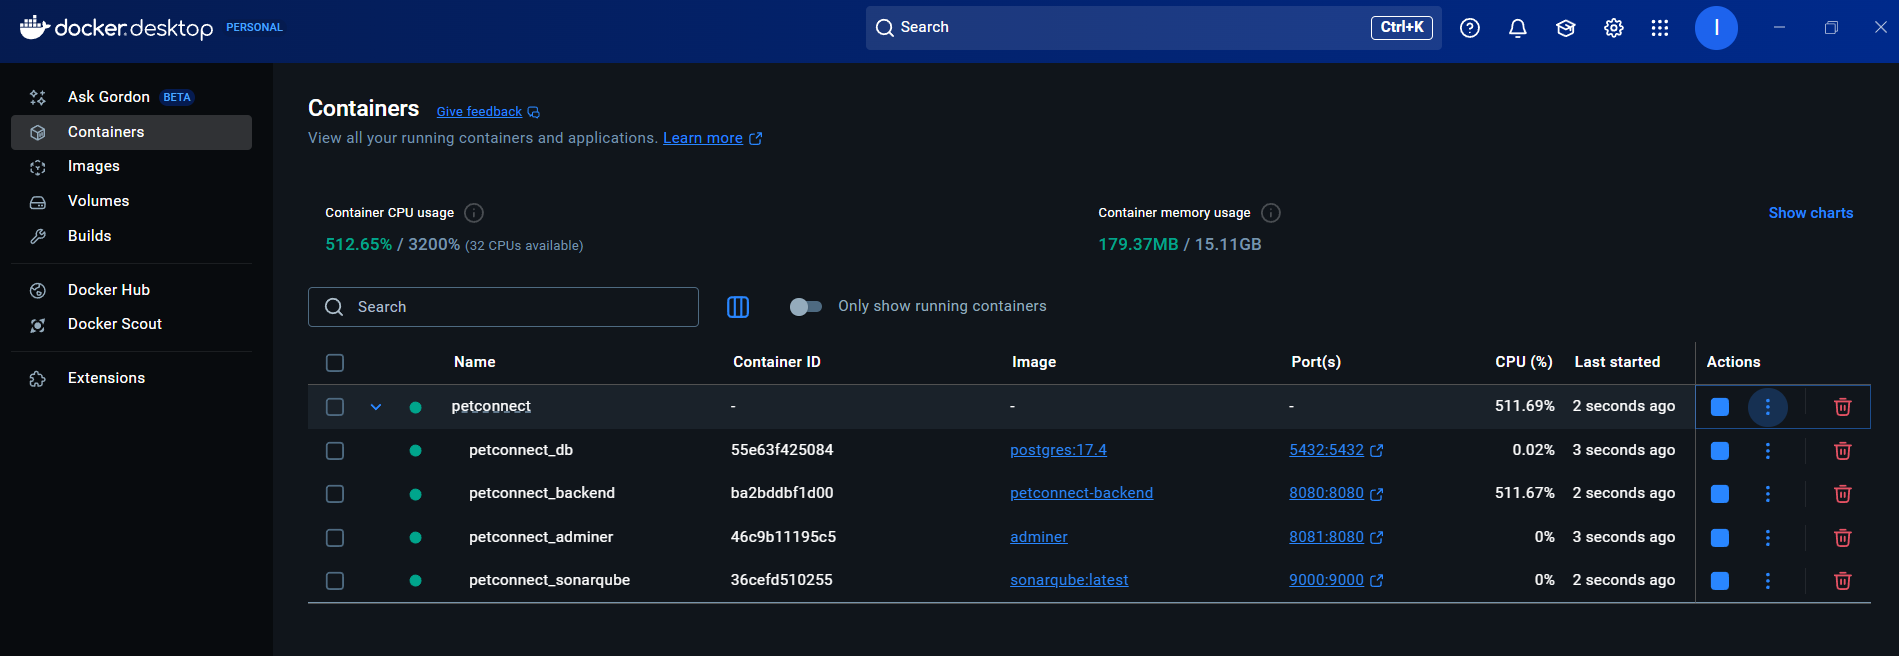
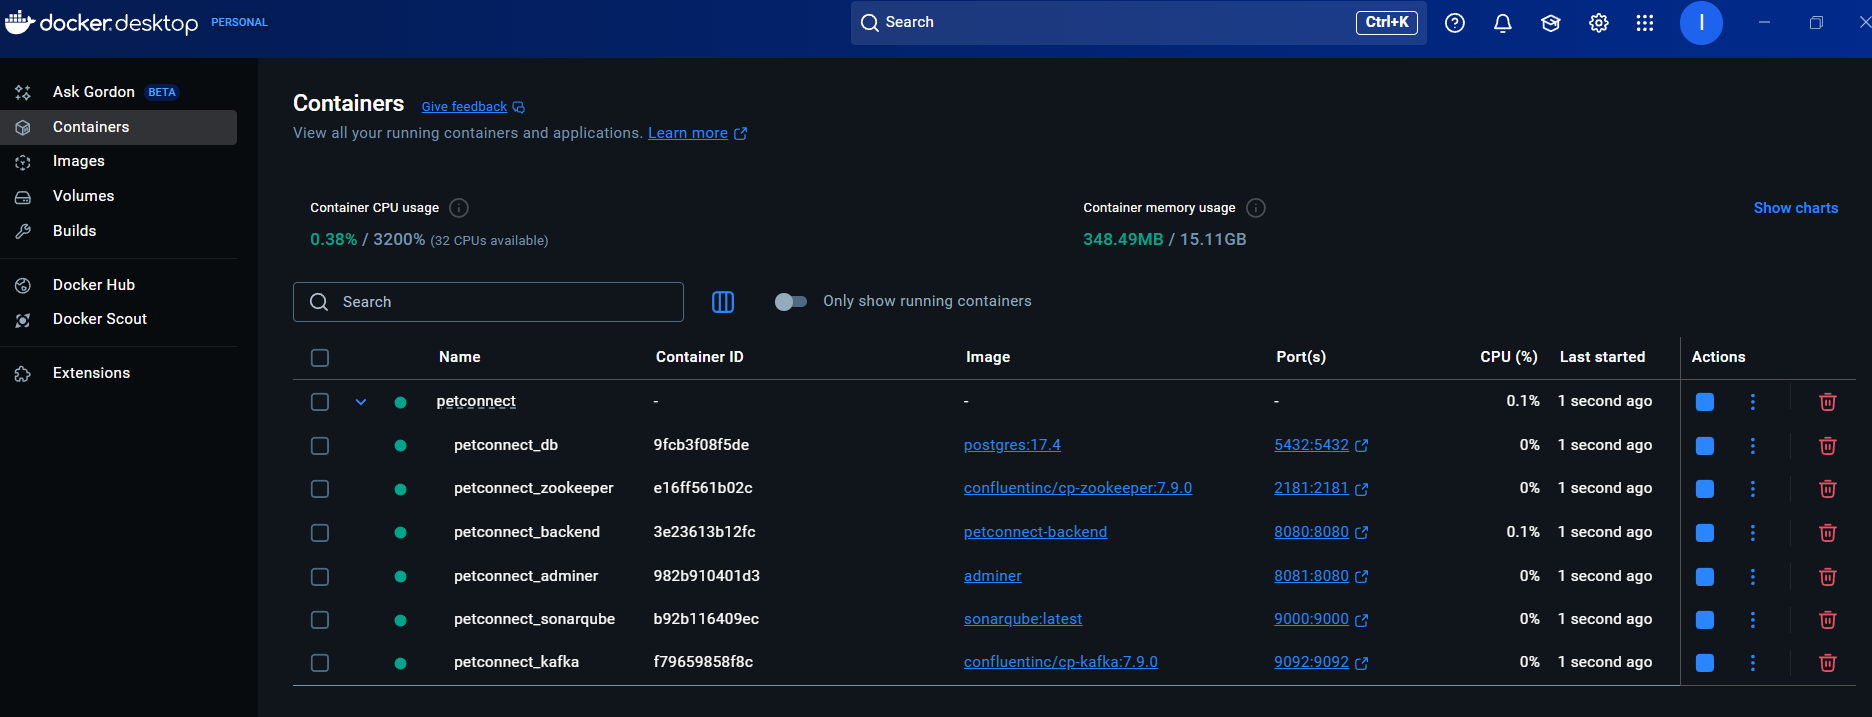
docs: Update README to include Kafka/Zookeeper services

diff --git a/backend/src/test/java/com/petconnect/backend/notification/adapter/kafka/KafkaEventPublicationIntegrationTest.java b/backend/src/test/java/com/petconnect/backend/notification/adapter/kafka/KafkaEventPublicationIntegrationTest.java
@@ -198,7 +198,6 @@ class KafkaEventPublicationIntegrationTest {
                 certificateRequestsTopicName,
                 certificateGeneratedTopicName
         ));
-        Thread.sleep(500);
         int maxMessagesToConsume = 100;
         KafkaTestUtils.getRecords(consumer, Duration.ofMillis(100), maxMessagesToConsume);
     }

diff --git a/README_ES.md b/README_ES.md
@@ -116,7 +116,8 @@ openssl rsa -pubout -in keys/clinic_private_key.pem -out keys/clinic_public_key.
 
 ## 4. Construir e iniciar el entorno de desarrollo completo
 
-Docker Compose se utiliza para orquestar todos los servicios necesarios (base de datos, backend, herramientas de análisis, etc.). Esta es la forma estándar de ejecutar la aplicación para desarrollo y pruebas.
+Docker Compose se utiliza para orquestar todos los servicios necesarios (base de datos, backend, herramientas de análisis, etc.). 
+Esta es la forma estándar de ejecutar la aplicación para desarrollo y pruebas.
 
 1.  **Asegúrate de Cumplir los Prerrequisitos:** Verifica que has completado los pasos 1-4 (Prerrequisitos, Clonar, Configuración `.env`, Generación de Claves si fue necesario).
 2.  **Construye e Inicia Todos los Servicios:** Desde el directorio raíz del proyecto (`petconnect/`), ejecuta el siguiente único comando:
@@ -125,23 +126,25 @@ Docker Compose se utiliza para orquestar todos los servicios necesarios (base de
     ```
 
 Este comando descargará las imágenes necesarias (si no las tienes) y creará e iniciará los siguientes contenedores en segundo plano (`-d`):
-- `petconnect_db`: Contenedor con la base de datos PostgreSQL 17.4.
-- `petconnect_adminer`: Interfaz web para gestionar la base de datos.
-- `petconnect_sonarqube`: Contenedor con el servidor SonarQube.
-- `petconnect_`backend``: Contenedor con el servidor Backend.
+-   `petconnect_db`: Contenedor con la base de datos PostgreSQL.
+-   `petconnect_adminer`: Interfaz web para gestionar la base de datos.
+-   `petconnect_backend`: Contenedor con la aplicación backend Spring Boot.
+-   `petconnect_sonarqube`: Contenedor con el servidor SonarQube.
+-   `petconnect_zookeeper`: Contenedor Zookeeper (para Kafka).
+-   `petconnect_kafka`: Contenedor con el broker Kafka (para eventos asíncronos).
 
 3.  **Verifica Todos los Contenedores:** Comprueba que todos los contenedores esperados están en ejecución:
     ```bash
     docker compose ps
     ```
-    Deberías ver `petconnect_db`, `petconnect_adminer`, `petconnect_backend` y `petconnect_sonarqube` listados como 'running' o 'up'.
+    Deberías ver `petconnect_db`, `petconnect_adminer`, `petconnect_backend`, `petconnect_sonarqube`, `petconnect_zookeeper` y `petconnect_kafka` listados como 'running' o 'up'.
 
-4.  **Revisa los Logs del Backend (Opcional):** Si es necesario, mira los logs del backend para confirmar un inicio correcto:
+4.  **Revisa los Logs del Backend:** Si es necesario, mira los logs del backend para confirmar un inicio correcto:
     ```bash
     docker compose logs -f backend
     ```
 
-Todos los servicios deberían estar ahora ejecutándose y accesibles en los puertos definidos en la Sección 9 (Acceder a las Herramientas y Aplicación). La API del backend está en `http://localhost:8080`.
+Todos los servicios deberían estar ahora ejecutándose y accesibles en los puertos definidos en la Sección 8 (Acceder a las Herramientas y Aplicación). La API del backend está en `http://localhost:8080`.
 
 > [!NOTE]
 > *   Para detener todos los servicios en ejecución: `docker compose down`
@@ -153,14 +156,14 @@ Todos los servicios deberían estar ahora ejecutándose y accesibles en los puer
 
 ## 5. Ejecutar backend localmente (Alternativa IDE/Debug)
 
-Aunque la Sección 4 describe cómo ejecutar el entorno completo vía Docker Compose, puede que prefieras ejecutar o depurar la aplicación backend directamente desde tu IDE (como IntelliJ o VS Code) o usando el plugin Maven de Spring Boot para obtener feedback más rápido durante el desarrollo, pero usando igualmente la base de datos contenerizada.
+Aunque la Sección 4 describe cómo ejecutar el entorno completo vía Docker Compose, puede que prefieras ejecutar o depurar la aplicación backend directamente desde tu IDE (como IntelliJ o VS Code) o usando el plugin Maven de Spring Boot para obtener feedback más rápido durante el desarrollo, pero usando igualmente la base de datos y herramientas de análisis contenerizadas.
 
 **Prerrequisitos para este método:**
 
-1.  **Contenedor de Base de Datos en Ejecución:** Es **obligatorio** que el contenedor de la base de datos PostgreSQL esté ejecutándose. Inicia *solo* el servicio de base de datos (y opcionalmente Adminer) si no está ya iniciado:
+1.  **Base de Datos y Otros Servicios en Ejecución:** Es **obligatorio** que los servicios externos necesarios estén ejecutándose en Docker. Inicia *al menos* la base de datos (y opcionalmente Adminer, SonarQube si pruebas localmente) si no están ya iniciados:
     ```bash
     # Asegúrate de estar en el directorio raíz del proyecto (petconnect/)
-    docker compose up -d db adminer
+    docker compose up -d db adminer sonarqube # Añade zookeeper kafka si es necesario para tests específicos, pero normalmente no para ejecutar el backend localmente
     ```
     Tu backend ejecutándose localmente se conectará a este contenedor vía `localhost:5432` (según se define en `backend/src/main/resources/application.properties`).
 
@@ -168,7 +171,7 @@ Aunque la Sección 4 describe cómo ejecutar el entorno completo vía Docker Com
     ```bash
     cd backend
     mvn clean package -DskipTests
-    # cd .. # Permanece en el directorio backend para el siguiente paso si usas Maven
+    # cd .. # Vuelve a la raíz del proyecto
     ```
 
 **Ejecutar el Backend Localmente:**
@@ -187,7 +190,10 @@ Aunque la Sección 4 describe cómo ejecutar el entorno completo vía Docker Com
 La API del backend estará disponible en `http://localhost:8080`, conectándose a la base de datos que se ejecuta en el contenedor Docker `petconnect_db`.
 
 > [!IMPORTANT]
-> Este método ejecuta la aplicación backend **fuera** de su propio contenedor Docker, directamente en tu máquina local. Depende de que tengas instaladas localmente las versiones correctas de Java y Maven (ver Sección 1). El método principal usando `docker compose up --build -d` (Sección 4) ejecuta el backend *dentro* de su contenedor, proporcionando una mayor consistencia de entorno.
+> Este método ejecuta la aplicación backend **fuera** de su propio contenedor Docker, directamente en tu máquina local. Depende de que tengas instaladas localmente las versiones correctas de Java y Maven (ver Sección 1).
+> 
+>**Nota:** Al ejecutarse localmente, el backend se conectará a la base de datos contenerizada vía `localhost:5432`. Sin embargo, **no podrá conectarse** al broker Kafka contenerizado usando el hostname interno `kafka:9092` especificado en `application.properties`. 
+> Para la funcionalidad completa incluyendo la publicación/consumo de eventos asíncronos, usa el entorno completo de Docker Compose (Sección 4).
 
 ## 6. Ejecutar pruebas (Tests)
 

diff --git a/README.md b/README.md
@@ -128,22 +128,26 @@ Docker Compose is used to orchestrate all the necessary services (database, back
     ```
 
 This command will download the necessary images (if not present) and create/start the following containers in detached mode (`-d`):
-- `petconnect_db`: PostgreSQL 17.4 database container.
-- `petconnect_adminer`: Web interface for database management.
-- `petconnect_sonarqube`: SonarQube server container.
+-   `petconnect_db`: PostgreSQL database container.
+-   `petconnect_adminer`: Web interface for database management.
+-   `petconnect_backend`: Spring Boot backend application container.
+-   `petconnect_sonarqube`: SonarQube server container.
+-   `petconnect_zookeeper`: Zookeeper container (for Kafka).
+-   `petconnect_kafka`: Kafka broker container (for asynchronous events).
 
 3.  **Verify All Containers:** Check that all expected containers are running:
     ```bash
     docker compose ps
     ```
-    You should see `petconnect_db`, `petconnect_adminer`, `petconnect_backend`, and `petconnect_sonarqube` listed as 'running' or 'up'.
+    You should see `petconnect_db`, `petconnect_adminer`, `petconnect_backend`, `petconnect_sonarqube`, `petconnect_zookeeper`, and `petconnect_kafka` listed as 'running' or 'up.'
 
-4.  **Check Backend Logs (Optional):** If needed, view the backend logs to confirm successful startup:
+
+4.  **Check Backend Logs:** If needed, view the backend logs to confirm a successful startup:
     ```bash
     docker compose logs -f backend
     ```
 
-All services should now be running and accessible at the ports defined in Section 9 (Accessing Tools & Applications). The backend API is at `http://localhost:8080`.
+All services should now be running and accessible at the ports defined in Section 8 (Accessing Tools & Applications). The backend API is at `http://localhost:8080`.
 
 > [!NOTE]
 > *   To stop all running services: `docker compose down`
@@ -154,22 +158,23 @@ All services should now be running and accessible at the ports defined in Sectio
 
 ## 5. Running backend locally (IDE/Debug Alternative)
 
-While Section 4 describes running the full environment via Docker Compose, you might prefer to run or debug the backend application directly from your IDE (like IntelliJ or VS Code) or using the Maven Spring Boot plugin for faster feedback loops during development, while still using the containerized database.
+While Section 4 describes running the full environment via Docker Compose, you might prefer to run or debug the backend application directly from your IDE (like IntelliJ or VS Code) or using the Maven Spring Boot plugin for faster feedback loops during development, while still using the containerized database and analysis tools
 
 **Prerequisites for this method:**
 
-1.  **Database Container Running:** You *must* have the PostgreSQL database container running. Start *only* the database service (and optionally Adminer) if it's not already running:
+1.  **Database & Other Services Running:** You *must* have the necessary external services running in Docker. Start *at least* the database (and optionally Adminer, SonarQube if testing locally) if they aren't already running:
     ```bash
-    # Ensure you are in the project root directory (petconnect/)
-    docker compose up -d db adminer
+     # Ensure you are in the project root directory (petconnect/)
+    docker compose up -d db adminer sonarqube # Add zookeeper kafka if needed for specific tests, but usually not for local backend run
     ```
     Your locally running backend will connect to this container via `localhost:5432` (as defined in `backend/src/main/resources/application.properties`).
+
 
 2.  **Backend Built (Optional but Recommended):** While `mvn spring-boot:run` can compile on the fly, ensuring the project is built cleanly beforehand can prevent issues:
     ```bash
     cd backend
     mvn clean package -DskipTests
-    # cd .. # Stay in backend directory for the next step if using Maven
+    # cd .. # Go back to project root
     ```
 
 **Running the Backend Locally:**
@@ -188,8 +193,11 @@ While Section 4 describes running the full environment via Docker Compose, you m
 The backend API will be available at `http://localhost:8080`, connecting to the database running in the `petconnect_db` Docker container.
 
 > [!IMPORTANT]
-> This method runs the backend application **outside** its own Docker container, directly on your host machine. It relies on having the correct Java and Maven versions installed locally (see Section 1). The primary method using the full `docker compose up --build -d` (Section 4) runs the backend *inside* its container, providing better environment consistency.
-This will compile the Java code, download dependencies, and package the application (usually as a JAR file in the `backend/target` directory).
+> 
+> This method runs the backend application **outside** its own Docker container, directly on your host machine. It relies on having the correct Java and Maven versions installed locally (see Section 1).
+> 
+>**Note:** When running locally, the backend will connect to the containerized database via `localhost:5432`. 
+> However, it **will not** be able to connect to the containerized Kafka broker using the internal hostname `kafka:9092` specified in `application.properties`. For full functionality including asynchronous event publishing/consumption testing, use the complete Docker Compose environment (Section 4).
 
 ## 6. Running tests
 
